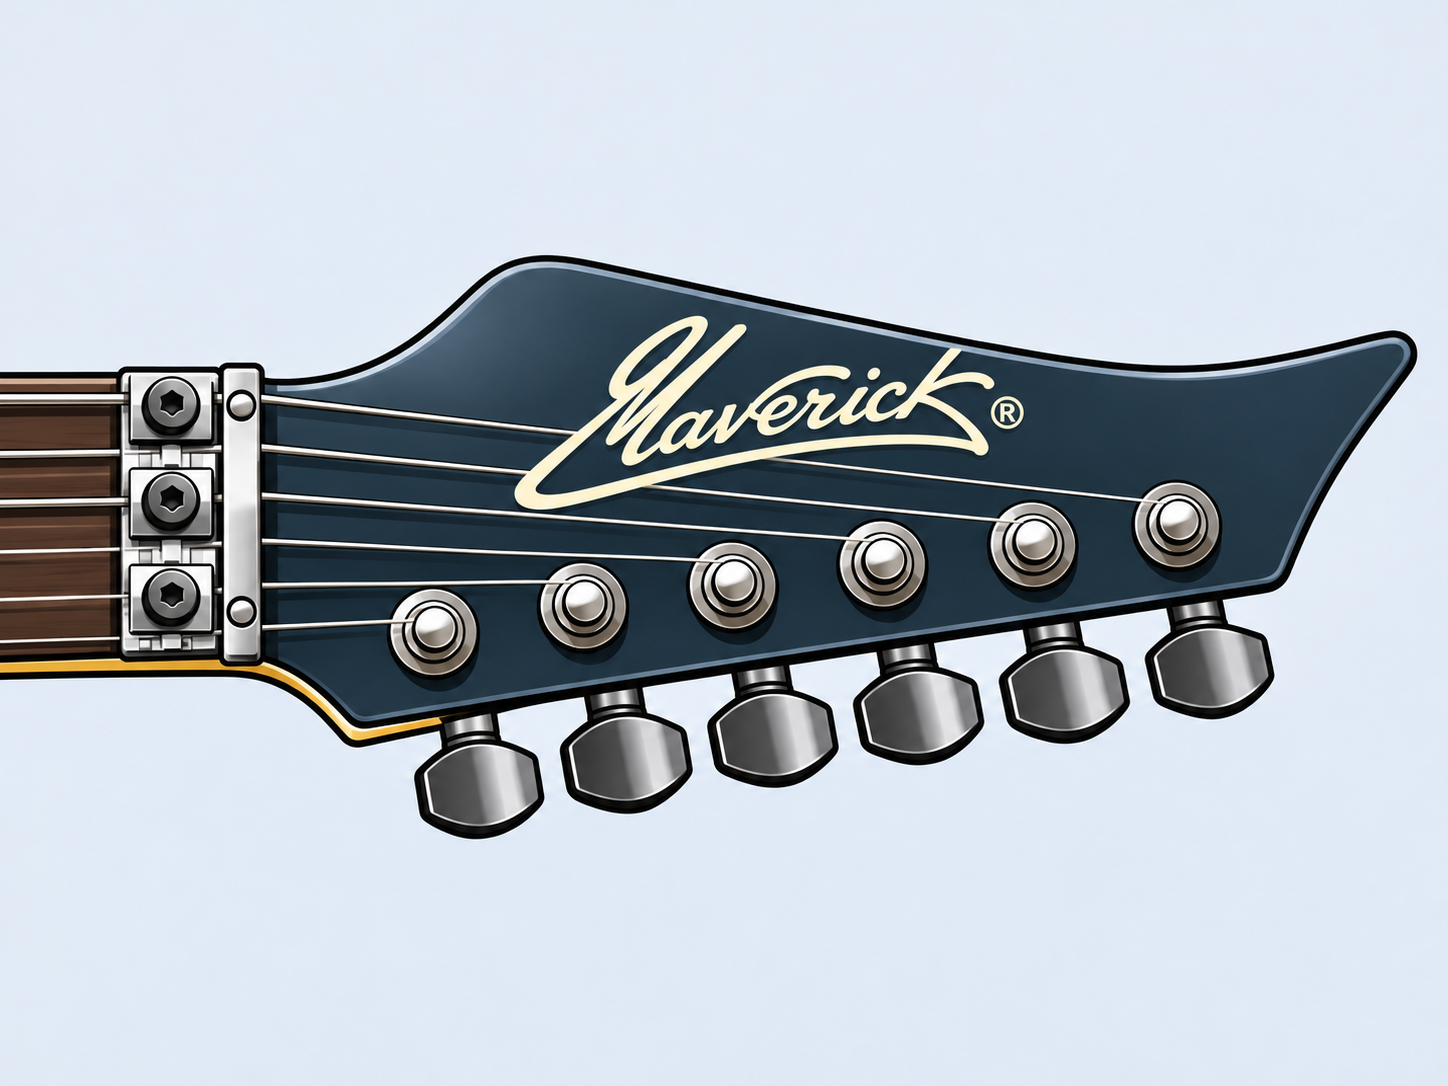
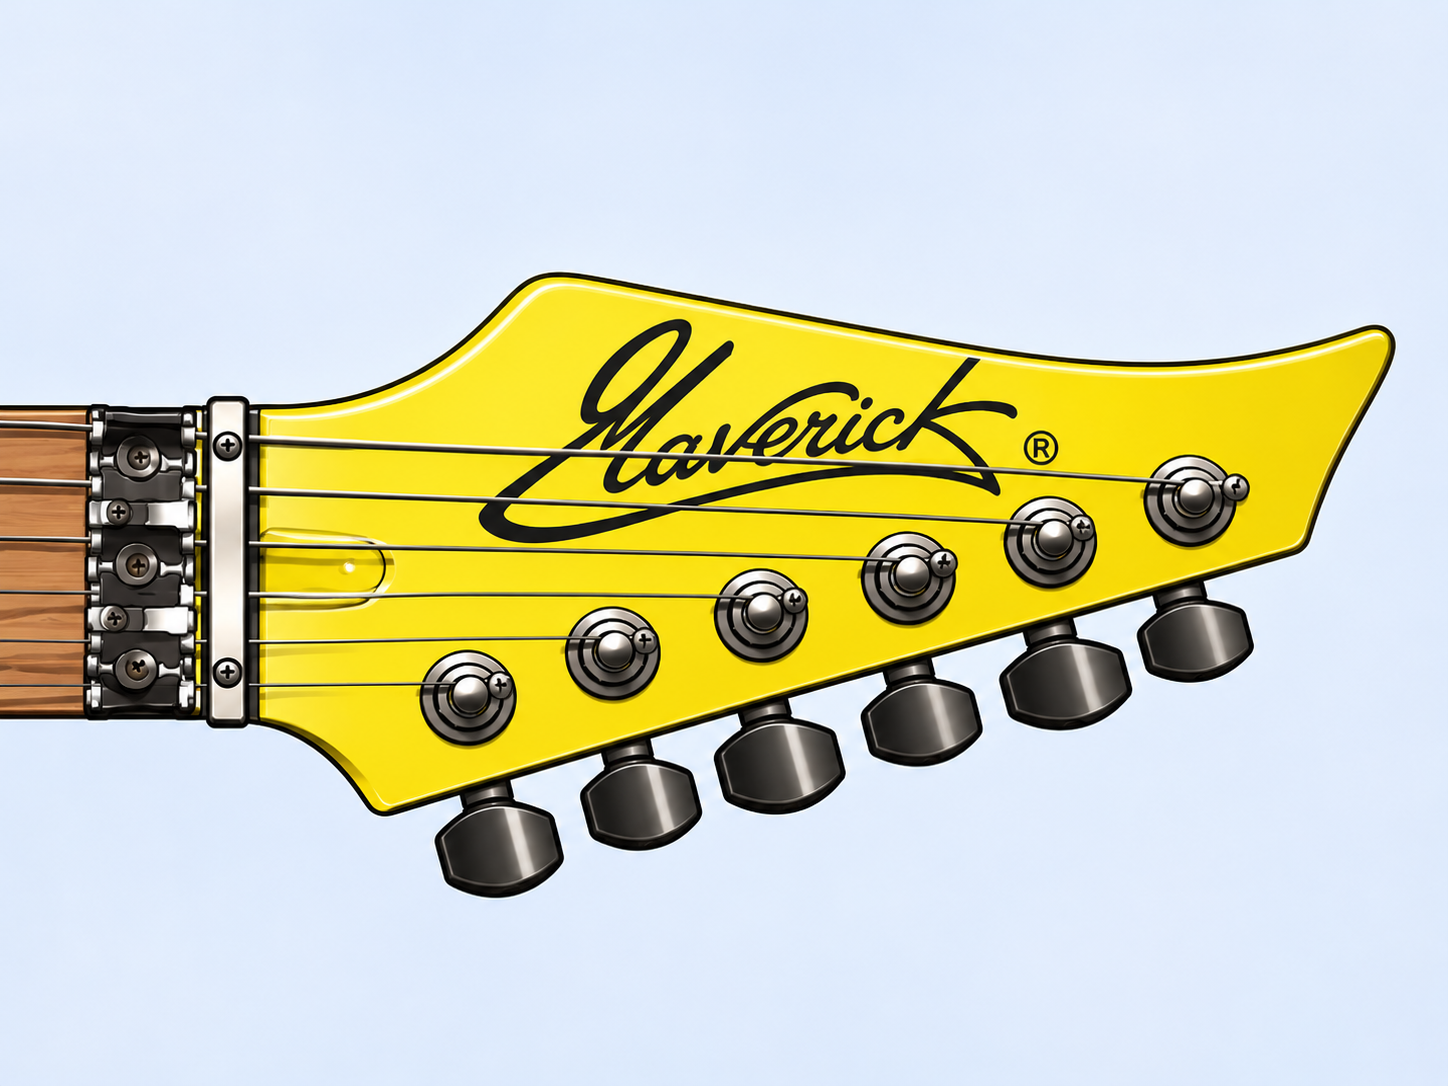
ID wizard: v2 headstock tiles and bridge-type tiles
Replace the F-body headstock standard/reversed images with the v2 artwork
and add picture tiles to the F-body bridge question.

diff --git a/src/lib/id-wizard-config.ts b/src/lib/id-wizard-config.ts
@@ -159,9 +159,9 @@ export const QUESTIONS: WizardQuestion[] = [
     o('OPT_FINGERBOARD_F_ONE_WOOD', 'Single wood, Maverick vent fret markers', M('MDL_SF1')),
   ]),
   q('Q_BRIDGE_F', LOOK_BRIDGE, [
-    o('OPT_BRIDGE_F_FLOYD', FLOYD, Q('Q_CONTROLS_F_FLOYD')),
-    o('OPT_BRIDGE_F_WILKINSON', WILK, Q('Q_CONTROLS_F_HT')),
-    o('OPT_BRIDGE_F_TOM_THRU', TOM, M('MDL_SPECIES1')),
+    { ...o('OPT_BRIDGE_F_FLOYD', FLOYD, Q('Q_CONTROLS_F_FLOYD')), image: '/wizard/tiles/OPT_BRIDGE_F_FLOYD.png' },
+    { ...o('OPT_BRIDGE_F_WILKINSON', WILK, Q('Q_CONTROLS_F_HT')), image: '/wizard/tiles/OPT_BRIDGE_F_WILKINSON.png' },
+    { ...o('OPT_BRIDGE_F_TOM_THRU', TOM, M('MDL_SPECIES1')), image: '/wizard/tiles/OPT_BRIDGE_F_TOM_THRU.png' },
   ]),
   q('Q_CONTROLS_F_FLOYD', 'Look at the controls on the body. Are they Evolution roller controls or standard knobs?', [
     o('OPT_CONTROLS_F_FLOYD_ROLLERS', 'Evolution roller controls', M('MDL_SF3')),
